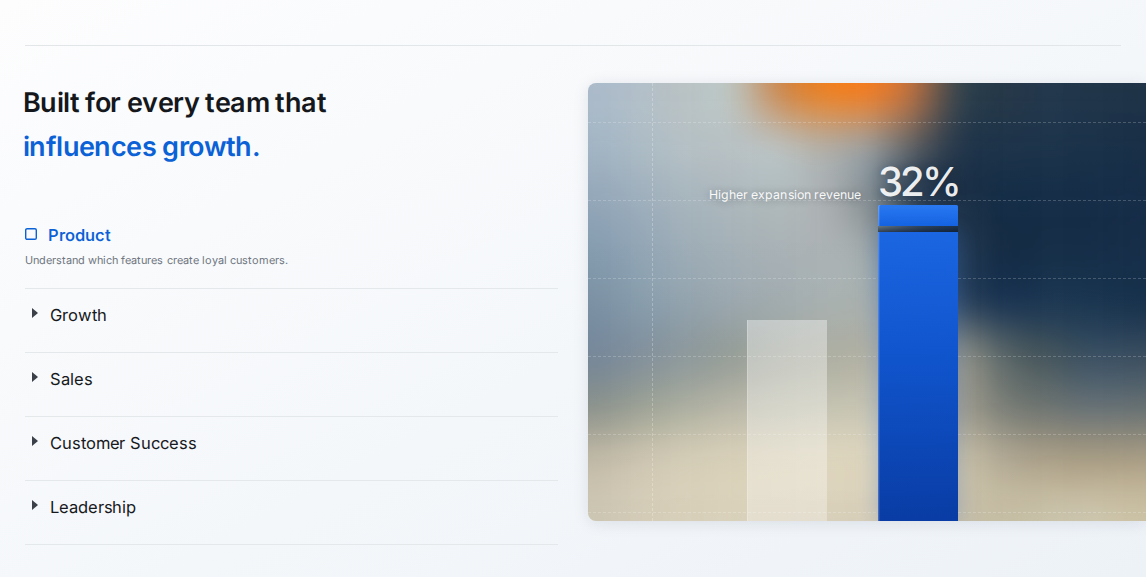
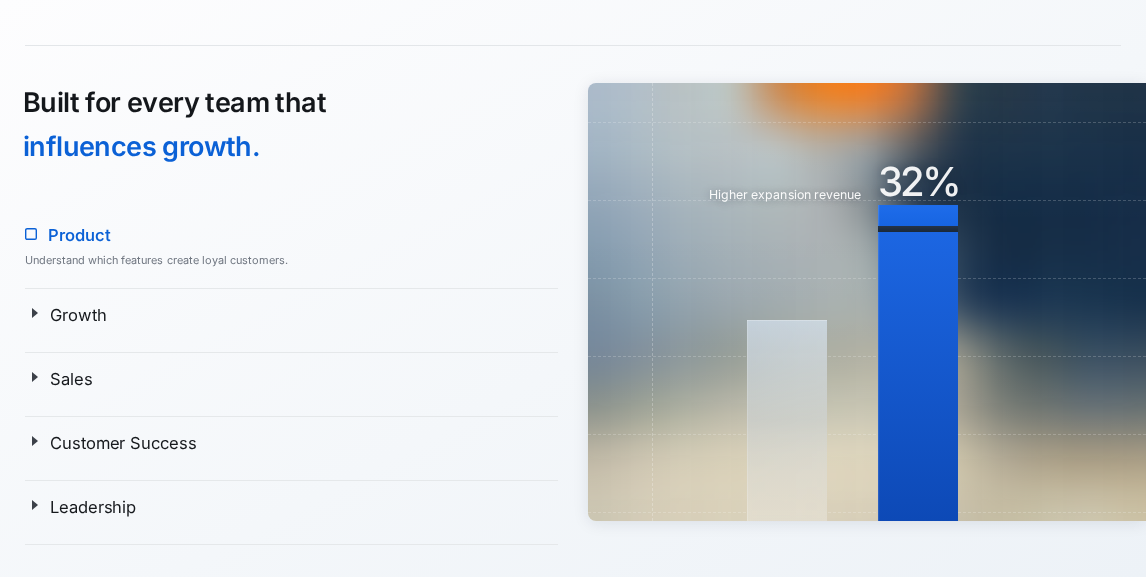
Rebuild the bars against sampled reference colours
Magnifying the bar region showed three things the full-page view hid:
the cap's shadow band was a heavy black slab, the primary bar's gradient
ran all the way to near-navy at the floor, and an outer box-shadow bloom
softened edges the reference keeps crisp.

- Primary bar is now near-linear #1c66e2 -> #0d49b6 over its full height,
  which is all the drift the reference actually has, and the bloom is
  gone. The left inner highlight drops from .24 to .12.
- Ghost bar is solved rather than guessed. Its backdrop runs steel-blue
  at the top and cream at the floor, so no single white wash can match
  both ends; alpha is held at .60 and the tint ramps instead, with stops
  derived from composite = a*tint + (1-a)*backdrop against sampled
  reference colours. Adds a real backdrop-filter and edge highlights.
- Cap shadow band is its own element with explicit geometry (y 226->232)
  rather than a negative-offset pseudo-element, and is toned to the
  sampled #1e2f42 instead of near-black.

All nine sampled bar colours now land within 4/255. Bar geometry is
unchanged and still exact: ghost 747->827 top 320, primary 878->958
top 232, cap 205->226.

comparison.png gains a bars band: the region magnified x2 beside a
per-sample colour table with swatches.

Claude-Session: https://claude.ai/code/session_01UT2YAfayrdLuun3uawT5iM

diff --git a/index.html b/index.html
@@ -226,36 +226,58 @@ body{
 .grid .h6{top:97.945%}  /* y 429        */
 .grid .v1{left:11.470%} /* x 64  of 558 */
 
-/* ---- bars --------------------------------------------------- */
-/* ghost bar · x 159 w 80 · top 237 of 438 (y 320 in frame) */
+/* ---- bars ---------------------------------------------------
+   Frame coordinates -> card percentages (card is 558 x 438):
+     ghost bar   x 747→827   y 320→521   (159→239, top 237)
+     cap segment x 878→958   y 205→226   (290→370, top 122, h 21)
+     shadow gap                y 226→232              (top 143, h  6)
+     primary bar x 878→958   y 232→521   (290→370, top 149)
+   Both bars share x-width 80/558 = 14.337%.
+   ------------------------------------------------------------ */
+
+/* Frosted glass. Alpha is held at .60 and the tint ramps instead: the
+   backdrop runs steel-blue at the top and cream at the floor, so a single
+   white wash cannot hit the reference at both ends. Stops were solved from
+   composite = a·tint + (1-a)·backdrop against sampled reference colours. */
 .bar-ghost{
-  position:absolute;bottom:0;
-  left:28.495%;width:14.337%;height:45.891%;
-  background:linear-gradient(180deg,rgba(255,255,255,.39) 0%,rgba(255,255,255,.34) 60%,rgba(255,255,255,.30) 100%);
-  box-shadow:inset calc(1*var(--u)) 0 0 rgba(255,255,255,.20);
+  position:absolute;
+  left:28.495%;width:14.337%;
+  top:54.109%;bottom:0;
+  background:linear-gradient(180deg,
+    rgba(224,238,255,.60)   0%,
+    rgba(207,212,215,.60)  50%,
+    rgba(232,228,218,.60) 100%);
+  -webkit-backdrop-filter:blur(calc(2*var(--u))) saturate(106%);
+  backdrop-filter:blur(calc(2*var(--u))) saturate(106%);
+  box-shadow:inset 0 calc(1*var(--u)) 0 rgba(255,255,255,.26),
+             inset calc(1*var(--u)) 0 0 rgba(255,255,255,.16);
 }
-/* primary bar · x 290 w 80 · top 149 of 438 (y 232 in frame) */
+
+/* Opaque, and near-linear top to bottom — the reference only drifts from
+   #1b64e0 to #0d4ab8 over the full height. No outer bloom: the reference
+   edges are crisp against the photograph. */
 .bar-blue{
-  position:absolute;bottom:0;
-  left:51.971%;width:14.337%;height:65.982%;
-  background:linear-gradient(179deg,var(--bar-blue-a) 0%,var(--bar-blue-b) 44%,var(--bar-blue-c) 100%);
-  box-shadow:inset calc(1.4*var(--u)) 0 0 rgba(255,255,255,.24),
-             0 0 calc(20*var(--u)) rgba(16,86,214,.26);
+  position:absolute;
+  left:51.971%;width:14.337%;
+  top:34.018%;bottom:0;
+  background:linear-gradient(180deg,#1c66e2 0%,#0d49b6 100%);
+  box-shadow:inset calc(1.2*var(--u)) 0 0 rgba(255,255,255,.12);
 }
-/* shadow band between cap and bar · y 143→149 of 438 */
-.bar-blue::before{
-  content:'';position:absolute;left:0;right:0;
-  top:calc(-6 * 100% / 289);height:calc(6 * 100% / 289);
-  background:linear-gradient(180deg,rgba(8,20,36,.14) 0%,rgba(8,20,36,.62) 100%);
-}
-/* cap segment · x 290 w 80 · y 122→143 of 438 (y 205→226) */
+
 .bar-cap{
   position:absolute;
   left:51.971%;width:14.337%;
   top:27.854%;height:4.795%;
-  background:linear-gradient(180deg,var(--bar-cap-a) 0%,var(--bar-cap-b) 100%);
-  border-radius:calc(1.5*var(--u)) calc(1.5*var(--u)) 0 0;
-  box-shadow:inset calc(1.4*var(--u)) 0 0 rgba(255,255,255,.28);
+  background:linear-gradient(180deg,#1e6cea 0%,#1765e2 100%);
+  box-shadow:inset calc(1.2*var(--u)) 0 0 rgba(255,255,255,.14);
+}
+
+/* the shadow the cap casts onto the bar below it */
+.bar-gap{
+  position:absolute;
+  left:51.971%;width:14.337%;
+  top:32.648%;height:1.370%;
+  background:linear-gradient(180deg,#243449 0%,#1a2838 100%);
 }
 
 /* ---- chart typography --------------------------------------- */
@@ -1229,8 +1251,9 @@ body{
     </div>
 
     <div class="bar-ghost" aria-hidden="true"></div>
-    <div class="bar-cap" aria-hidden="true"></div>
-    <div class="bar-blue" aria-hidden="true"></div>
+    <div class="bar-cap"   aria-hidden="true"></div>
+    <div class="bar-gap"   aria-hidden="true"></div>
+    <div class="bar-blue"  aria-hidden="true"></div>
 
     <div class="stat-label">Higher expansion revenue</div>
     <div class="stat">32%</div>
